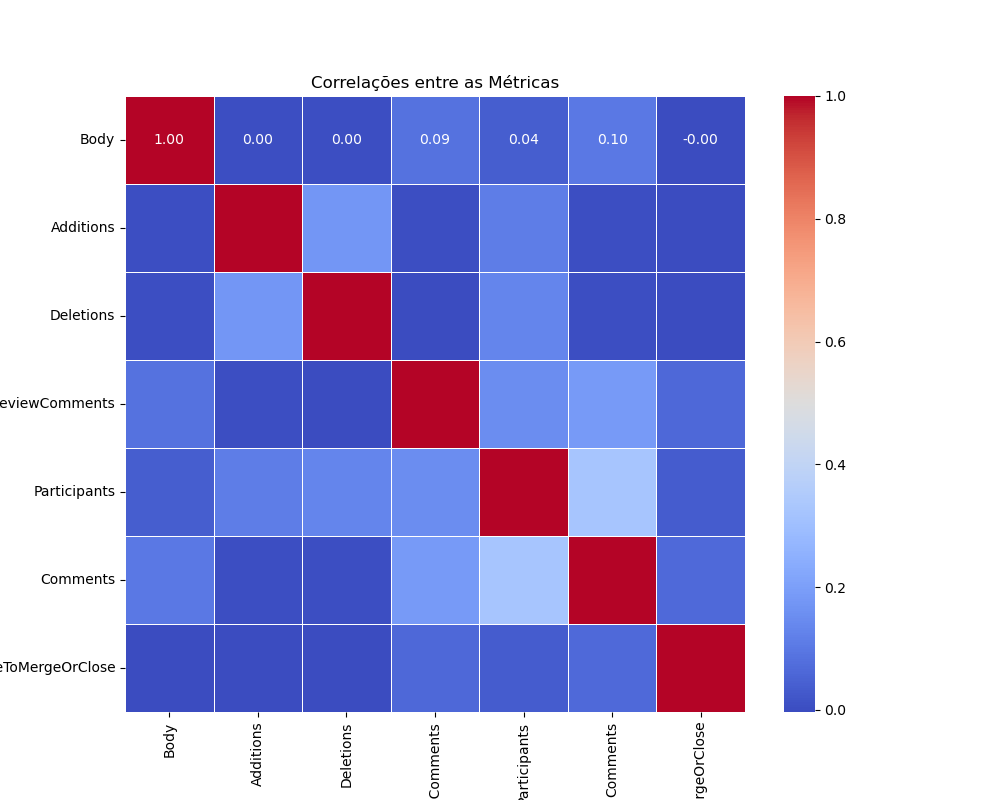
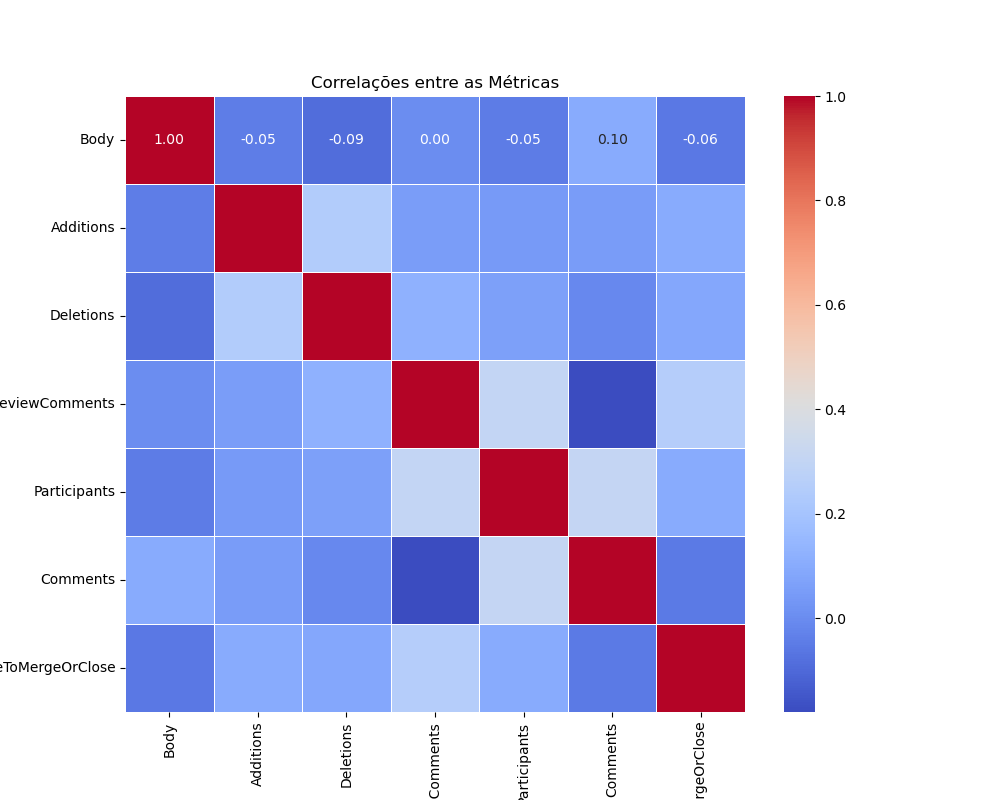
graficos A

diff --git a/scripts/lab-3/graficos.py b/scripts/lab-3/graficos.py
@@ -3,9 +3,19 @@ import seaborn as sns
 import matplotlib.pyplot as plt
 import os
 
+# Função para filtrar os dados de acordo com os critérios especificados
 def filtrar_dados(df):
     df = df[(df['Merged'] == True) | (df['Closed'] == True)]
     return df
+
+# Função para remover outliers usando o método IQR
+def remove_outliers_iqr(df, column):
+    Q1 = df[column].quantile(0.25)
+    Q3 = df[column].quantile(0.75)
+    IQR = Q3 - Q1
+    lower_bound = Q1 - 1.5 * IQR
+    upper_bound = Q3 + 1.5 * IQR
+    return df[(df[column] >= lower_bound) & (df[column] <= upper_bound)]
 
 diretorio_dados = "./scripts/lab-3/dataset/"
 diretorio_graficos = "./scripts/lab-3/graficos/"
@@ -32,89 +42,101 @@ print(df_concatenado)
 
 metricas = ['Body', 'Additions', 'Deletions', 'ReviewComments', 'Participants', 'Comments', 'TimeToMergeOrClose']
 
-correlacoes = df_concatenado[metricas].corr()
+# Corrigir os outliers
+for coluna in metricas:
+    df_concatenado = remove_outliers_iqr(df_concatenado, coluna)
+
+# Salvar o gráfico de correlações
 plt.figure(figsize=(10, 8))
-sns.heatmap(correlacoes, annot=True, cmap='coolwarm', fmt=".2f", linewidths=.5)
+sns.heatmap(df_concatenado[metricas].corr(), annot=True, cmap='coolwarm', fmt=".2f", linewidths=.5)
 plt.title('Correlações entre as Métricas')
-plt.savefig(os.path.join(diretorio_graficos, 'correlacoes.png'))  # Salvar o gráfico
+plt.savefig(os.path.join(diretorio_graficos, 'correlacoes.png'))
 plt.show()
 
 # A. Feedback Final das Revisões (Status do PR):
 
-# RQ 01. Qual a relação entre o tamanho dos PRs e o feedback final das revisões?
-plt.figure(figsize=(8, 6))
-sns.scatterplot(x='Additions', y='TimeToMergeOrClose', hue='Merged', data=df_concatenado, palette='Set1', legend='full')
-plt.title('Relação entre o número de linhas adicionadas e o tempo para fechamento/merge')
+# RQ 01. Qual a relação entre o número de linhas adicionadas e o tempo para fechamento/merge?
+plt.figure(figsize=(12, 6))
+plt.subplot(1, 2, 1)
+sns.scatterplot(x='Additions', y='TimeToMergeOrClose', data=df_concatenado[df_concatenado['Merged']], color='blue', alpha=0.5)
+plt.title('Merged: Número de linhas adicionadas vs. Tempo para fechamento/merge')
 plt.xlabel('Número de linhas adicionadas')
-plt.ylabel('Tempo para fechamento/merge (em dias)')
-plt.legend(title='Status do PR', loc='upper right', labels=['Fechado', 'Merged'])
-plt.savefig(os.path.join(diretorio_graficos, 'relacao_additions_tempo.png'))  # Salvar o gráfico
+plt.ylabel('Tempo para fechamento/merge (em segundos)')
+
+plt.subplot(1, 2, 2)
+sns.scatterplot(x='Additions', y='TimeToMergeOrClose', data=df_concatenado[df_concatenado['Closed']], color='red', alpha=0.5)
+plt.title('Closed: Número de linhas adicionadas vs. Tempo para fechamento/merge')
+plt.xlabel('Número de linhas adicionadas')
+plt.ylabel('Tempo para fechamento/merge (em segundos)')
+
+plt.tight_layout()
+plt.savefig(os.path.join(diretorio_graficos, 'relacao_additions_tempo.png'))
 plt.show()
 
-# RQ 02. Qual a relação entre o tempo de análise dos PRs e o feedback final das revisões?
+# RQ 02. Qual a relação entre o feedback final (Closed/Merged) e o tempo para fechamento/merge?
 plt.figure(figsize=(8, 6))
-sns.scatterplot(x='TimeToMergeOrClose', y='TimeToMergeOrClose', hue='Merged', data=df_concatenado, palette='Set1', legend='full')
-plt.title('Relação entre o tempo de análise dos PRs e o tempo para fechamento/merge')
-plt.xlabel('Tempo de análise dos PRs (em dias)')
-plt.ylabel('Tempo para fechamento/merge (em dias)')
-plt.legend(title='Status do PR', loc='upper right', labels=['Fechado', 'Merged'])
-plt.savefig(os.path.join(diretorio_graficos, 'relacao_tempo_analise_tempo.png'))  # Salvar o gráfico
+sns.boxplot(x='Merged', y='TimeToMergeOrClose', data=df_concatenado)
+plt.title('Relação entre o feedback final e o tempo para fechamento/merge')
+plt.xlabel('Feedback Final')
+plt.ylabel('Tempo para fechamento/merge (em segundos)')
+plt.xticks([0, 1], ['Closed', 'Merged'])
+plt.savefig(os.path.join(diretorio_graficos, 'relacao_feedback_tempo.png'))
 plt.show()
 
 # RQ 03. Qual a relação entre a descrição dos PRs e o feedback final das revisões?
 plt.figure(figsize=(8, 6))
-sns.scatterplot(x='Comments', y='TimeToMergeOrClose', hue='Merged', data=df_concatenado, palette='Set1', legend='full')
-plt.title('Relação entre o número de comentários na descrição dos PRs e o tempo para fechamento/merge')
-plt.xlabel('Número de comentários na descrição dos PRs')
-plt.ylabel('Tempo para fechamento/merge (em dias)')
-plt.legend(title='Status do PR', loc='upper right', labels=['Fechado', 'Merged'])
-plt.savefig(os.path.join(diretorio_graficos, 'relacao_comments_tempo.png'))  # Salvar o gráfico
+sns.boxplot(x='Merged', y='Comments', data=df_concatenado)
+plt.title('Relação entre o feedback final e o número de comentários na descrição dos PRs')
+plt.xlabel('Feedback Final')
+plt.ylabel('Número de comentários na descrição dos PRs')
+plt.xticks([0, 1], ['Closed', 'Merged'])
+plt.savefig(os.path.join(diretorio_graficos, 'relacao_comments_feedback.png'))
 plt.show()
 
 # RQ 04. Qual a relação entre as interações nos PRs e o feedback final das revisões?
 plt.figure(figsize=(8, 6))
-sns.scatterplot(x='Participants', y='TimeToMergeOrClose', hue='Merged', data=df_concatenado, palette='Set1', legend='full')
-plt.title('Relação entre o número de participantes nos PRs e o tempo para fechamento/merge')
-plt.xlabel('Número de participantes nos PRs')
-plt.ylabel('Tempo para fechamento/merge (em dias)')
-plt.legend(title='Status do PR', loc='upper right', labels=['Fechado', 'Merged'])
-plt.savefig(os.path.join(diretorio_graficos, 'relacao_participants_tempo.png'))  # Salvar o gráfico
+sns.boxplot(x='Merged', y='Participants', data=df_concatenado)
+plt.title('Relação entre o feedback final e o número de participantes nos PRs')
+plt.xlabel('Feedback Final')
+plt.ylabel('Número de participantes nos PRs')
+plt.xticks([0, 1], ['Closed', 'Merged'])
+plt.savefig(os.path.join(diretorio_graficos, 'relacao_participants_feedback.png'))
 plt.show()
 
 # B. Número de Revisões:
 
 # RQ 05. Qual a relação entre o tamanho dos PRs e o número de revisões realizadas?
 plt.figure(figsize=(8, 6))
-sns.scatterplot(x='Body', y='ReviewComments', data=df_concatenado)
+sns.boxplot(x='Body', y='ReviewComments', data=df_concatenado)
 plt.title('Relação entre o tamanho dos PRs e o número de revisões realizadas')
 plt.xlabel('Tamanho dos PRs')
 plt.ylabel('Número de revisões realizadas')
-plt.savefig(os.path.join(diretorio_graficos, 'relacao_tamanho_revisoes.png'))  # Salvar o gráfico
+plt.savefig(os.path.join(diretorio_graficos, 'relacao_tamanho_revisoes.png'))
 plt.show()
 
 # RQ 06. Qual a relação entre o tempo de análise dos PRs e o número de revisões realizadas?
 plt.figure(figsize=(8, 6))
-sns.scatterplot(x='TimeToMergeOrClose', y='ReviewComments', data=df_concatenado)
+sns.boxplot(x='TimeToMergeOrClose', y='ReviewComments', data=df_concatenado)
 plt.title('Relação entre o tempo de análise dos PRs e o número de revisões realizadas')
-plt.xlabel('Tempo de análise dos PRs (em dias)')
+plt.xlabel('Tempo de análise dos PRs (em segundos)')
 plt.ylabel('Número de revisões realizadas')
-plt.savefig(os.path.join(diretorio_graficos, 'relacao_tempo_analise_revisoes.png'))  # Salvar o gráfico
+plt.savefig(os.path.join(diretorio_graficos, 'relacao_tempo_analise_revisoes.png'))
 plt.show()
 
 # RQ 07. Qual a relação entre a descrição dos PRs e o número de revisões realizadas?
 plt.figure(figsize=(8, 6))
-sns.scatterplot(x='Comments', y='ReviewComments', data=df_concatenado)
+sns.boxplot(x='Comments', y='ReviewComments', data=df_concatenado)
 plt.title('Relação entre a descrição dos PRs e o número de revisões realizadas')
 plt.xlabel('Número de comentários na descrição dos PRs')
 plt.ylabel('Número de revisões realizadas')
-plt.savefig(os.path.join(diretorio_graficos, 'relacao_comments_revisoes.png'))  # Salvar o gráfico
+plt.savefig(os.path.join(diretorio_graficos, 'relacao_comments_revisoes.png'))
 plt.show()
 
 # RQ 08. Qual a relação entre as interações nos PRs e o número de revisões realizadas?
 plt.figure(figsize=(8, 6))
-sns.scatterplot(x='Participants', y='ReviewComments', data=df_concatenado)
+sns.boxplot(x='Participants', y='ReviewComments', data=df_concatenado)
 plt.title('Relação entre as interações nos PRs e o número de revisões realizadas')
 plt.xlabel('Número de participantes nos PRs')
 plt.ylabel('Número de revisões realizadas')
-plt.savefig(os.path.join(diretorio_graficos, 'relacao_participants_revisoes.png'))  # Salvar o gráfico
+plt.savefig(os.path.join(diretorio_graficos, 'relacao_participants_revisoes.png'))
 plt.show()
